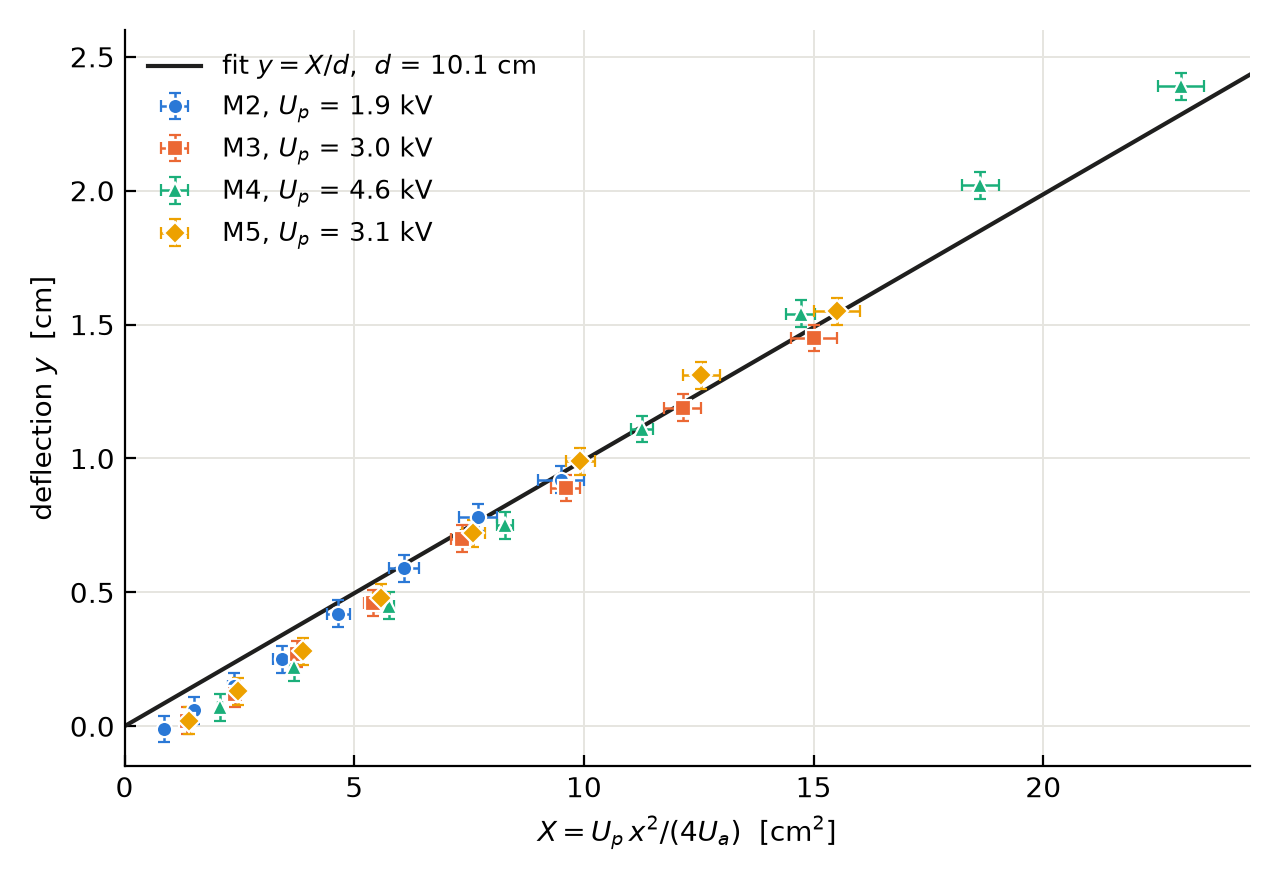
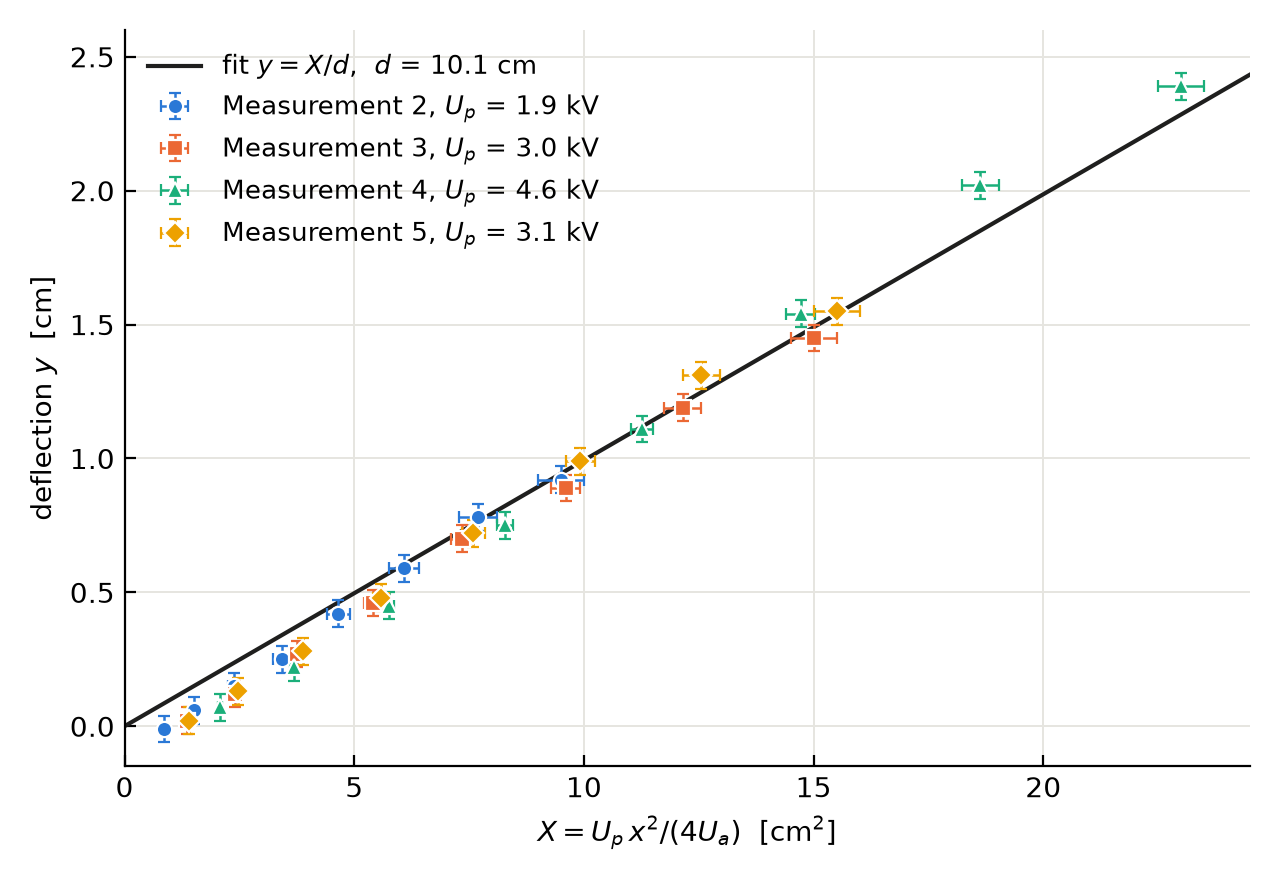
modify plot

Changed region(s): [[0.1875, 0.092, 0.4688, 0.2761], [0.4062, 0.092, 0.4688, 0.1227]]

diff --git a/e-beam.py b/e-beam.py
@@ -9,10 +9,10 @@ x = np.arange(3, 11) # positions where y is read [cm]
 
 # Measurements: plate voltage [kV] and deflection y [cm] at x = 3..10 cm
 data = {
-    "M2": (1.9, [-0.01, 0.06, 0.15, 0.25, 0.42, 0.59, 0.78, 0.92]),
-    "M3": (3.0, [0.02, 0.12, 0.27, 0.46, 0.70, 0.89, 1.19, 1.45]),
-    "M4": (4.6, [0.07, 0.22, 0.45, 0.75, 1.11, 1.54, 2.02, 2.39]),
-    "M5": (3.1, [0.02, 0.13, 0.28, 0.48, 0.72, 0.99, 1.31, 1.55]),
+    "Measurement 2": (1.9, [-0.01, 0.06, 0.15, 0.25, 0.42, 0.59, 0.78, 0.92]),
+    "Measurement 3": (3.0, [0.02, 0.12, 0.27, 0.46, 0.70, 0.89, 1.19, 1.45]),
+    "Measurement 4": (4.6, [0.07, 0.22, 0.45, 0.75, 1.11, 1.54, 2.02, 2.39]),
+    "Measurement 5": (3.1, [0.02, 0.13, 0.28, 0.48, 0.72, 0.99, 1.31, 1.55]),
 }
 
 colors = ["#2a78d6", "#eb6834", "#1baf7a", "#eda100"]
